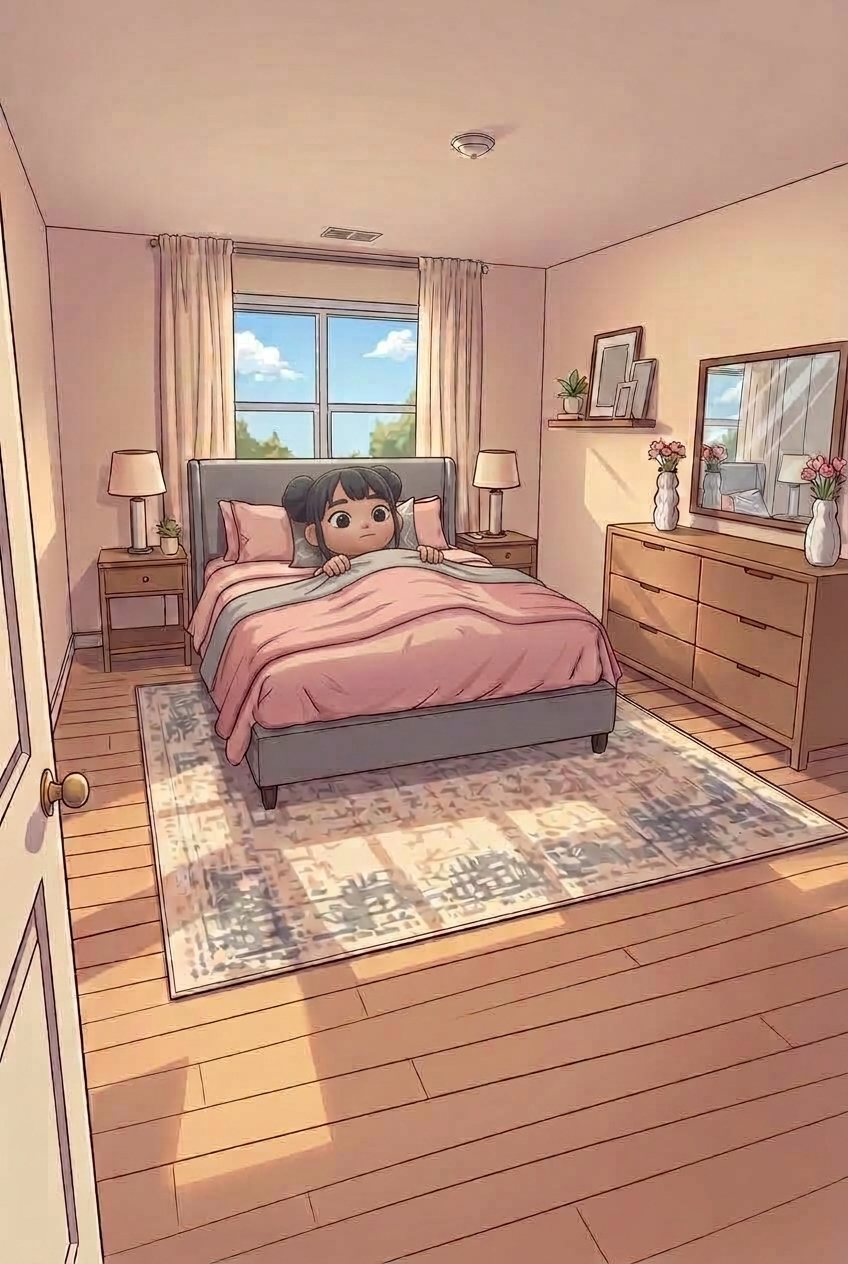
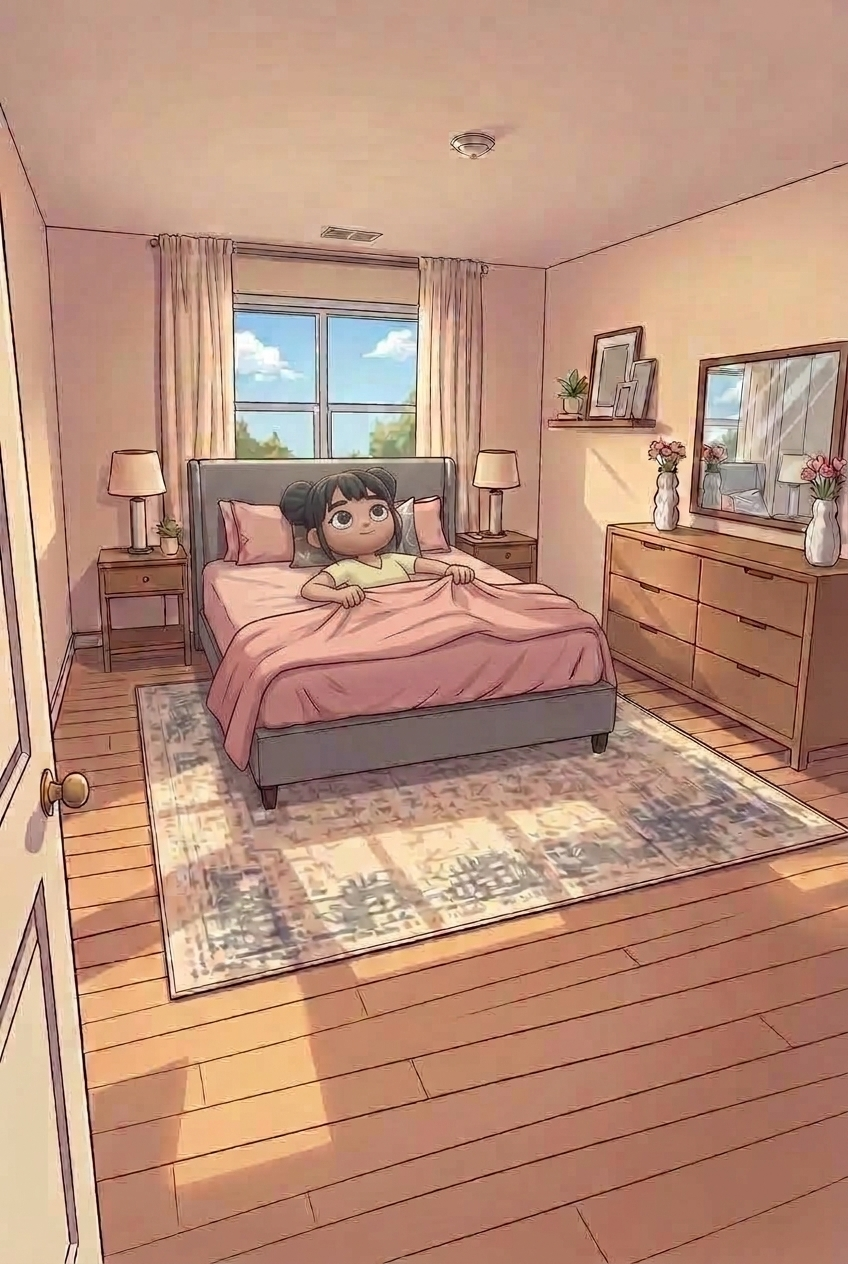
feat(frontend): 눕는 길에 '앉아서 이불 잡기' 칸을 더하고, 당기는 칸의 얼굴을 맞추고, 자는 간격을 늘린다
들어가는 길이 세 칸이 됐다: 앉아서 이불 잡기(다리만 덮인 채 목까지 끌어올리려는 참) → 누워서 당기기 → 이불 덮고
눈 뜬 채 → 잠. 나올 땐 거꾸로.

당기는 칸은 얼굴이 혼자 달랐다 — 눈이 작고 눈동자에 하이라이트가 없고 입이 일자였다. 방 그림을 참고로 주면 모델이
얼굴까지 제 나름대로 다시 그린다. 얼굴이 제대로 나온 칸(bed-awake)을 참고로 주고 '이불 높이와 손만' 바꾸게 좁히니
눈 모양·눈동자 자리·하이라이트·입이 같아졌다. 앉는 칸도 발이 이불 위로 삐져나와 다시 받았다.

자는 두 칸은 1.4초마다 바뀌어 뒤척이는 것처럼 보였다 — 3.4초로 늘렸다.

클레이 방은 건드리지 않았다.

Changed region(s): [[0.2146, 0.3703, 0.7358, 0.6171], [0.7665, 0.3394, 0.7972, 0.3703]]

diff --git a/frontend/scripts/room-build.py b/frontend/scripts/room-build.py
@@ -39,11 +39,12 @@ ROOMS = {
   },
 }
 # 장면 = 방 전체 그림 몇 장 (그 물건 + 사람이 함께 그려져 있다).
-#   enter  들어가는 길 — 서 있다가 바로 잠들면 어색하니 이불 당기기 → 이불 덮고 눈 뜬 채를 거친다. 나올 땐 거꾸로 되짚는다.
+#   enter  들어가는 길 — 서 있다가 바로 잠들면 어색하니 앉아서 이불 잡기 → 누워서 당기기 → 이불 덮고 눈 뜬 채를 거친다.
+#          나올 땐 거꾸로 되짚는다. 없는 칸은 건너뛴다 (방마다 가진 그림이 다를 수 있으니)
 #   frames 그 자리에서 도는 칸 (숨쉬기·화장 동작)
 SCENES = {
-  'sleep':  { 'ko': '자기', 'enter': ['{bed}-pull', '{bed}-awake'], 'enterMs': 620,
-              'frames': ['{room}-sleeping', '{scene}-sleep-2'], 'interval': 1400 },
+  'sleep':  { 'ko': '자기', 'enter': ['{bed}-sit', '{bed}-pull', '{bed}-awake'], 'enterMs': 620,
+              'frames': ['{room}-sleeping', '{scene}-sleep-2'], 'interval': 3400 },   # 자는 건 천천히 — 두 칸이 자주 바뀌면 뒤척이는 것처럼 보인다
   'makeup': { 'ko': '화장', 'frames': ['{scene}-makeup-1', '{scene}-makeup-2', '{scene}-makeup-3'], 'interval': 800 },
 }
 
@@ -82,8 +83,8 @@ for sid, sc in SCENES.items():
             outs.append(f'/rooms/{RID}/scenes/{sid}-{tag}{i + 1}.jpg?v={save(n, p)}')
         return outs
     frames = cut_all(names, '')
-    enter_names = [fmt(f) for f in sc.get('enter', [])]
-    enter = cut_all(enter_names, 'in') if enter_names and all(have(n) for n in enter_names) else []
+    enter_names = [n for n in (fmt(f) for f in sc.get('enter', [])) if have(n)]   # 없는 칸은 건너뛴다
+    enter = cut_all(enter_names, 'in') if enter_names else []
     scenes[sid] = { 'ko': sc['ko'], 'frames': frames, 'interval': sc['interval'], **({ 'enter': enter, 'enterMs': sc.get('enterMs', 520) } if enter else {}) }
     print(f'  scenes/{sid}-*.jpg  ← {", ".join(enter_names + names)}')
 
